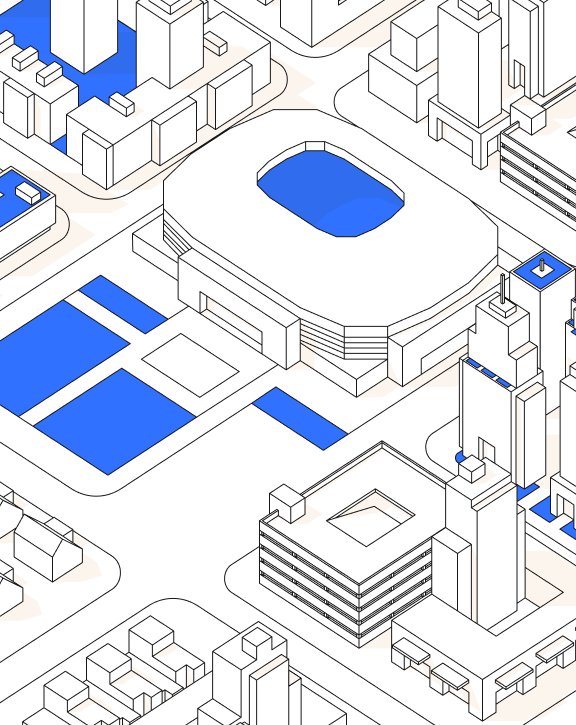
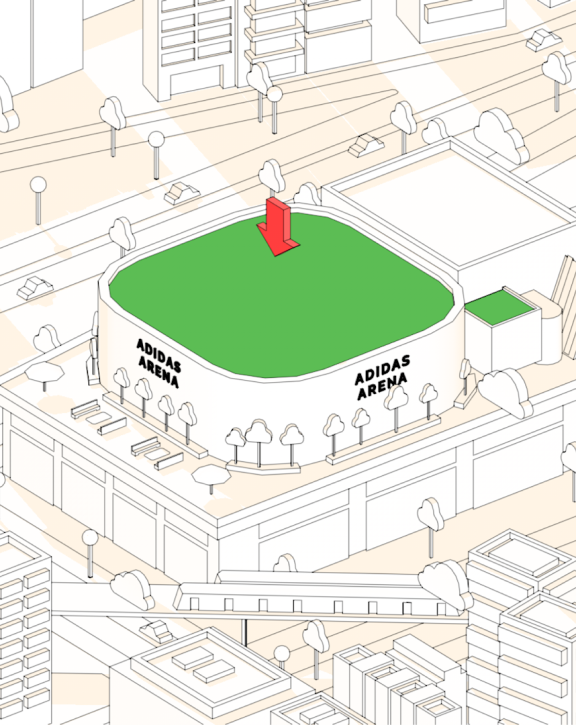
wip footer, lot of fixes and new feature,link component

diff --git a/components/app/Footer.vue b/components/app/Footer.vue
@@ -47,16 +47,29 @@
       </form>
       <div class="app-footer__links">
         <TP2 weight="bold" class="app-footer__links-title"> ADIDAS ARENA </TP2>
-        <ul class="app-footer__links__ul first-column">
-          <li><TP2 weight="bold">Accueil</TP2></li>
-          <li><TP2 weight="bold">Accueil</TP2></li>
-          <li><TP2 weight="bold">Accueil</TP2></li>
-          <li><TP2 weight="bold">Accueil</TP2></li>
-          <li><TP2 weight="bold">Accueil</TP2></li>
-        </ul>
+        <div class="app-footer__links__ul first-column">
+          <AtomsLink
+            v-for="(item, index) in contents.data.app_footer_links_left"
+            :key="index"
+            :href="item.app_footer_links_left_link"
+            :external="false"
+          >
+            <TP2 weight="bold">
+              {{ item.app_footer_links_left_text }}
+            </TP2>
+          </AtomsLink>
+        </div>
         <ul class="app-footer__links__ul second-column">
-          <li><TP2 weight="bold">Accueil</TP2></li>
-          <li><TP2 weight="bold">Accueil</TP2></li>
+          <AtomsLink
+            v-for="(item, index) in contents.data.app_footer_links_right"
+            :key="index"
+            :href="item.app_footer_links_right_link"
+            :external="false"
+          >
+            <TP2 weight="bold">
+              {{ item.app_footer_links_right_text }}
+            </TP2>
+          </AtomsLink>
         </ul>
       </div>
       <div class="app-footer__social-networks">
@@ -96,12 +109,16 @@
     </div>
     <div class="app-footer__partners">
       <TH2 class="app-footer__partners-title"> NOS PARTENAIREs </TH2>
-      <EGridLogosFooter />
+      <EGridLogosFooter :contents="logos" />
     </div>
     <div class="app-footer__bottom">
       <TP2> ©2022 - Tous droits réservés</TP2>
-      <TP2> Cookies</TP2>
-      <TP2> Mentions légales</TP2>
+      <AtomsLink href="#" :external="false">
+        <TP2> Cookies</TP2>
+      </AtomsLink>
+      <AtomsLink href="#" :external="false">
+        <TP2> Mentions légales</TP2>
+      </AtomsLink>
     </div>
   </div>
 </template>
@@ -114,6 +131,10 @@ export default {
     contents: {
       type: Object,
       default: () => {},
+    },
+    logos: {
+      type: Array,
+      default: () => [],
     },
   },
   data() {
@@ -131,7 +152,7 @@ export default {
     },
   },
   mounted() {
-    console.log(this.contents)
+    console.log('logos', this.logos)
     this.tl = gsap.timeline({
       paused: true,
     })
@@ -197,14 +218,14 @@ export default {
       margin-left: initial;
     }
 
+    a {
+      margin-left: desktop-vw(50px);
+    }
+
     .P2 {
       @include font-adihausDIN-cn();
       letter-spacing: -0.04em;
       text-transform: uppercase;
-
-      &:not(:first-child) {
-        margin-left: desktop-vw(50px);
-      }
 
       @include mobile {
         &:nth-child(1),
@@ -438,7 +459,8 @@ export default {
     }
 
     &__ul {
-      list-style: none;
+      display: flex;
+      flex-direction: column;
 
       &:not(:last-child) {
         @include mobile {
@@ -453,6 +475,7 @@ export default {
       .P2 {
         @include font-adihausDIN-cn-bold();
         text-transform: uppercase;
+        display: inline-block;
       }
 
       &:first-of-type {
@@ -463,7 +486,7 @@ export default {
         }
       }
 
-      li:not(:first-child) {
+      a:not(:first-child) {
         margin-top: desktop-vw(6px);
       }
     }

diff --git a/components/elements/GridLogosFooter.vue b/components/elements/GridLogosFooter.vue
@@ -1,17 +1,18 @@
 <template>
   <div class="app-element-grid-logos-footer">
     <div
-      v-for="(logo, index) in logos"
+      v-for="(logo, index) in contents"
       :key="index"
       :class="{
         big: logo.big,
       }"
       class="bloc"
     >
-      <img
-        v-if="index <= logos.length - 1"
-        :src="logos[index].src"
-        alt="test"
+      <nuxt-img
+        provider="directus"
+        :src="logo.logo_black_white"
+        :alt="logo.logo_alt"
+        format="webp"
       />
     </div>
   </div>
@@ -19,63 +20,14 @@
 
 <script>
 export default {
+  props: {
+    contents: {
+      type: Array,
+      default: () => [],
+    },
+  },
   data() {
-    return {
-      logos: [
-        {
-          src: '/imgs/placeholder-logo-home.png',
-          big: false,
-        },
-        {
-          src: '/imgs/placeholder-logo-home.png',
-          big: false,
-        },
-        {
-          src: '/imgs/placeholder-logo-home.png',
-          big: false,
-        },
-        {
-          src: '/imgs/placeholder-logo-home.png',
-          big: false,
-        },
-        {
-          src: '/imgs/placeholder-logo-home.png',
-          big: false,
-        },
-        {
-          src: '/imgs/placeholder-logo-home.png',
-          big: false,
-        },
-        {
-          src: '/imgs/placeholder-logo-home.png',
-          big: false,
-        },
-        {
-          src: '/imgs/placeholder-logo-home.png',
-          big: false,
-        },
-        {
-          src: '/imgs/placeholder-logo-home.png',
-          big: true,
-        },
-        {
-          src: '/imgs/placeholder-logo-home.png',
-          big: false,
-        },
-        {
-          src: '/imgs/placeholder-logo-home.png',
-          big: false,
-        },
-        {
-          src: '/imgs/placeholder-logo-home.png',
-          big: false,
-        },
-        {
-          src: '/imgs/placeholder-logo-home.png',
-          big: false,
-        },
-      ],
-    }
+    return {}
   },
 }
 </script>

diff --git a/components/atoms/Link.vue b/components/atoms/Link.vue
@@ -1,0 +1,91 @@
+<template>
+  <a
+    v-if="external"
+    class="app-atoms-link"
+    :href="href"
+    :target="blank ? '_blank' : false"
+  >
+    <slot />
+  </a>
+  <nuxt-link
+    v-else
+    class="app-atoms-link"
+    :to="href"
+    :target="blank ? '_blank' : false"
+  >
+    <slot />
+  </nuxt-link>
+</template>
+
+<script>
+export default {
+  props: {
+    external: {
+      type: Boolean,
+      default: false,
+    },
+    href: {
+      type: String,
+      default: '#link',
+    },
+    blank: {
+      type: Boolean,
+      default: false,
+    },
+  },
+  mounted() {
+    this.initHoverAnimation()
+  },
+  methods: {
+    initHoverAnimation() {
+      this.$el.onmouseenter = this.$el.onmouseleave = (e) => {
+        console.log('here')
+        const tolerance = 10
+
+        const left = 0
+        const right = this.$el.clientWidth
+
+        let x = e.pageX - this.$el.offsetLeft
+
+        if (x - tolerance < left) x = left
+        if (x + tolerance > right) x = right
+
+        this.$el.style.setProperty('--x', `${x}px`)
+      }
+    },
+  },
+}
+</script>
+
+<style lang="scss">
+.app-atoms-link {
+  position: relative;
+  display: inline-block;
+  margin-right: auto;
+  cursor: pointer;
+
+  &:hover {
+    opacity: 1;
+  }
+
+  &:hover::after {
+    --scale: 1;
+  }
+
+  &::after {
+    --scale: 0;
+
+    content: '';
+    position: absolute;
+    left: 0;
+    right: 0;
+    top: calc(100% + 2px);
+    height: 1px;
+    background: var(--c-black);
+    transform: scaleX(var(--scale));
+    transform-origin: var(--x) 50%;
+    transition: transform 0.3s cubic-bezier(0.51, 0.92, 0.24, 1);
+    width: 100%;
+  }
+}
+</style>

diff --git a/pages/arena.vue b/pages/arena.vue
@@ -4,7 +4,7 @@
     <EFullwidth :contents="contentFullwidth" />
     <AppArenaPartners :contents="contentPartners" />
     <AppArenaGallery :contents="contentGallerie" />
-    <AppFooter :contents="app" />
+    <AppFooter :contents="app" :logos="partners.data" />
   </main>
 </template>
 
@@ -36,10 +36,6 @@ export default {
       content,
       gallerie,
     }
-  },
-
-  mounted() {
-    console.log('fdfdsfs', this.gallerie)
   },
 
   computed: {

diff --git a/pages/be-part-of/configurations.vue b/pages/be-part-of/configurations.vue
@@ -3,7 +3,7 @@
     <AppBepartofConfigurationsIntroduction :contents="contentIntroduction" />
     <AppBepartofConfigurationsArena :contents="contentArena" />
     <AppContactQuestion :contents="contentContactQuestion" />
-    <AppFooter :contents="app" />
+    <AppFooter :contents="app" :logos="partners.data" />
   </main>
 </template>
 

diff --git a/pages/be-part-of/hospitalite.vue b/pages/be-part-of/hospitalite.vue
@@ -8,7 +8,7 @@
     <ESlider :contents="contentSlider" />
     <AppContactQuestion :contents="contentContactQuestion" />
     <AppContactNewsletter :contents="contentContactNewsletter" />
-    <AppFooter :contents="app" />
+    <AppFooter :contents="app" :logos="partners.data" />
   </main>
 </template>
 

diff --git a/pages/projet.vue b/pages/projet.vue
@@ -7,7 +7,7 @@
       <AppProjetWorkProgress />
       <AppProjetPlan :contents="contentPlan" />
       <AppProjetTwoColumns :contents="contentTwoColumns" />
-      <AppFooter :contents="app" />
+      <AppFooter :contents="app" :logos="partners.data" />
     </div>
   </main>
 </template>

diff --git a/pages/be-part-of/partenaire.vue b/pages/be-part-of/partenaire.vue
@@ -5,7 +5,7 @@
     <AppArenaGallery />
     <AppContactQuestion :contents="contentContactQuestion" />
     <AppContactNewsletter :contents="contentContactNewsletter" />
-    <AppFooter :contents="app" />
+    <AppFooter :contents="app" :logos="partners.data" />
   </main>
 </template>
 

diff --git a/pages/index.vue b/pages/index.vue
@@ -14,7 +14,7 @@
     </EMarqueeScroll>
     <AppHomeProjet :contents="contentProjet" />
     <AppHomePartners :contents="contentPartners" />
-    <AppFooter :contents="app" />
+    <AppFooter :contents="app" :logos="partners.data" />
   </main>
 </template>
 

diff --git a/pages/le-bloc.vue b/pages/le-bloc.vue
@@ -18,7 +18,7 @@
       </EMarqueeScroll>
     </div>
     <EFullwidth :contents="contentFullwidth" />
-    <AppFooter :contents="app" />
+    <AppFooter :contents="app" :logos="partners.data" />
   </main>
 </template>
 

diff --git a/layouts/default.vue b/layouts/default.vue
@@ -4,7 +4,7 @@
     <nuxt />
     <AppScene />
     <AppPreloadLayer />
-    <AppCursor />
+    <!-- <AppCursor /> -->
   </div>
 </template>
 
